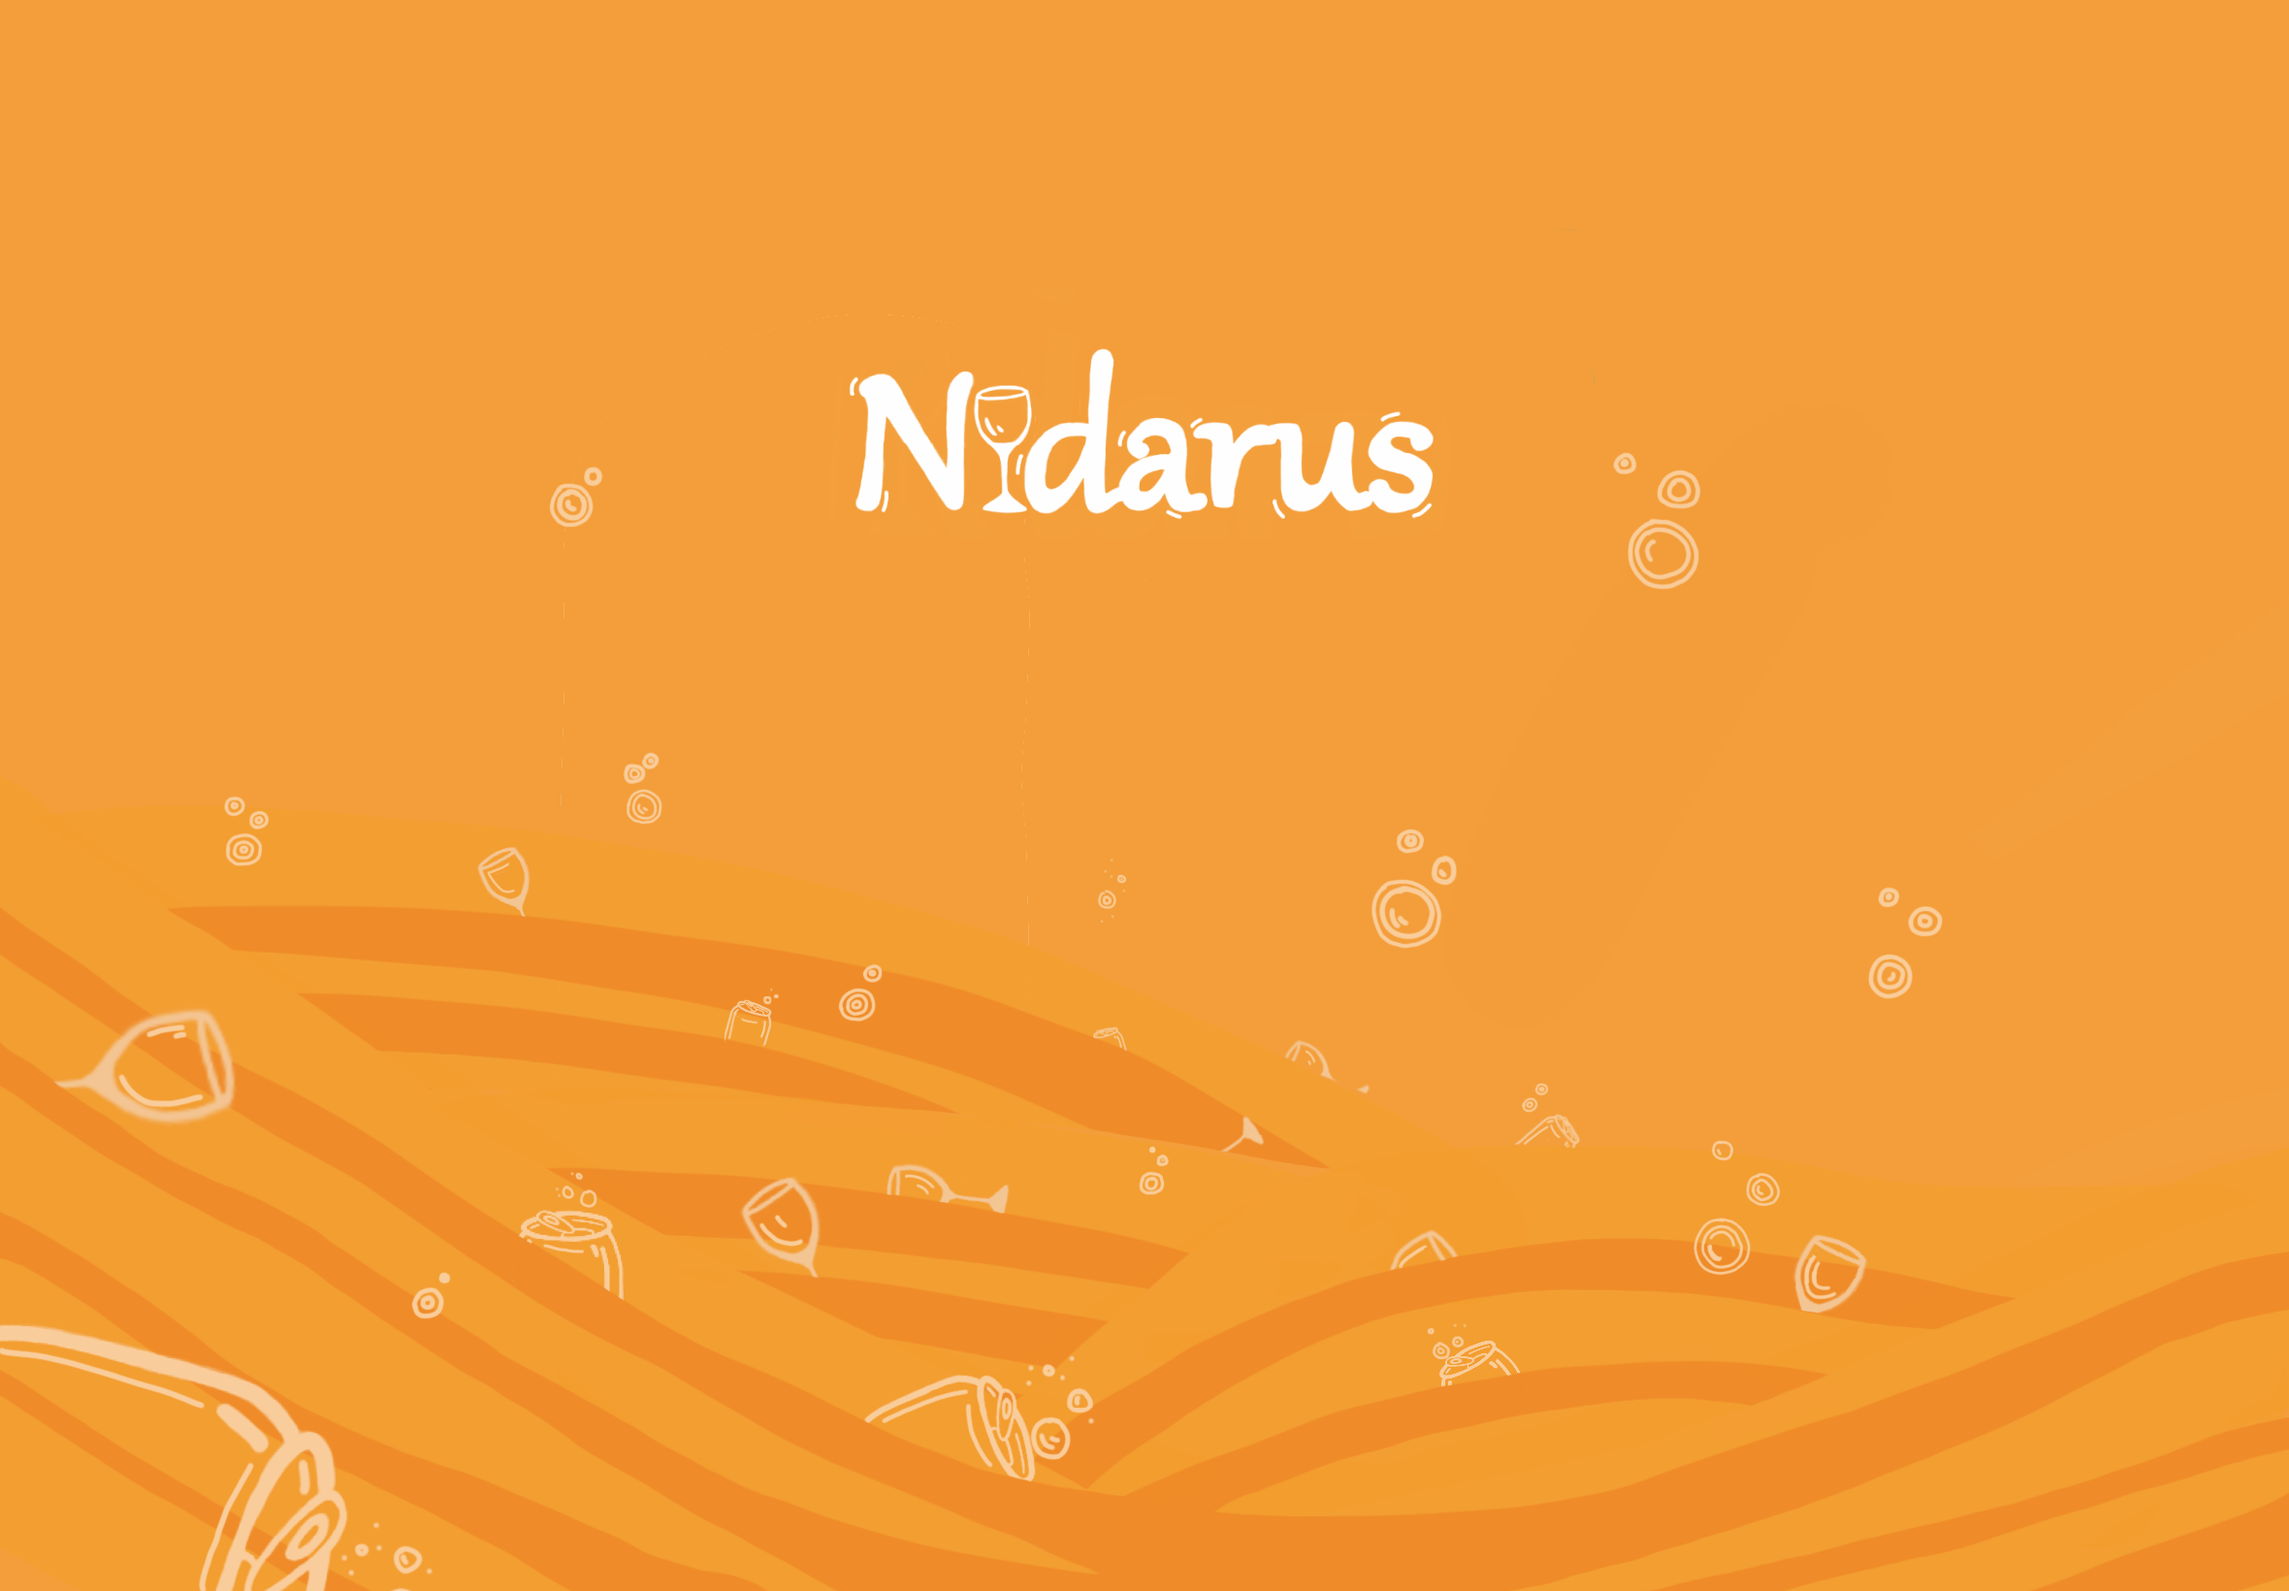
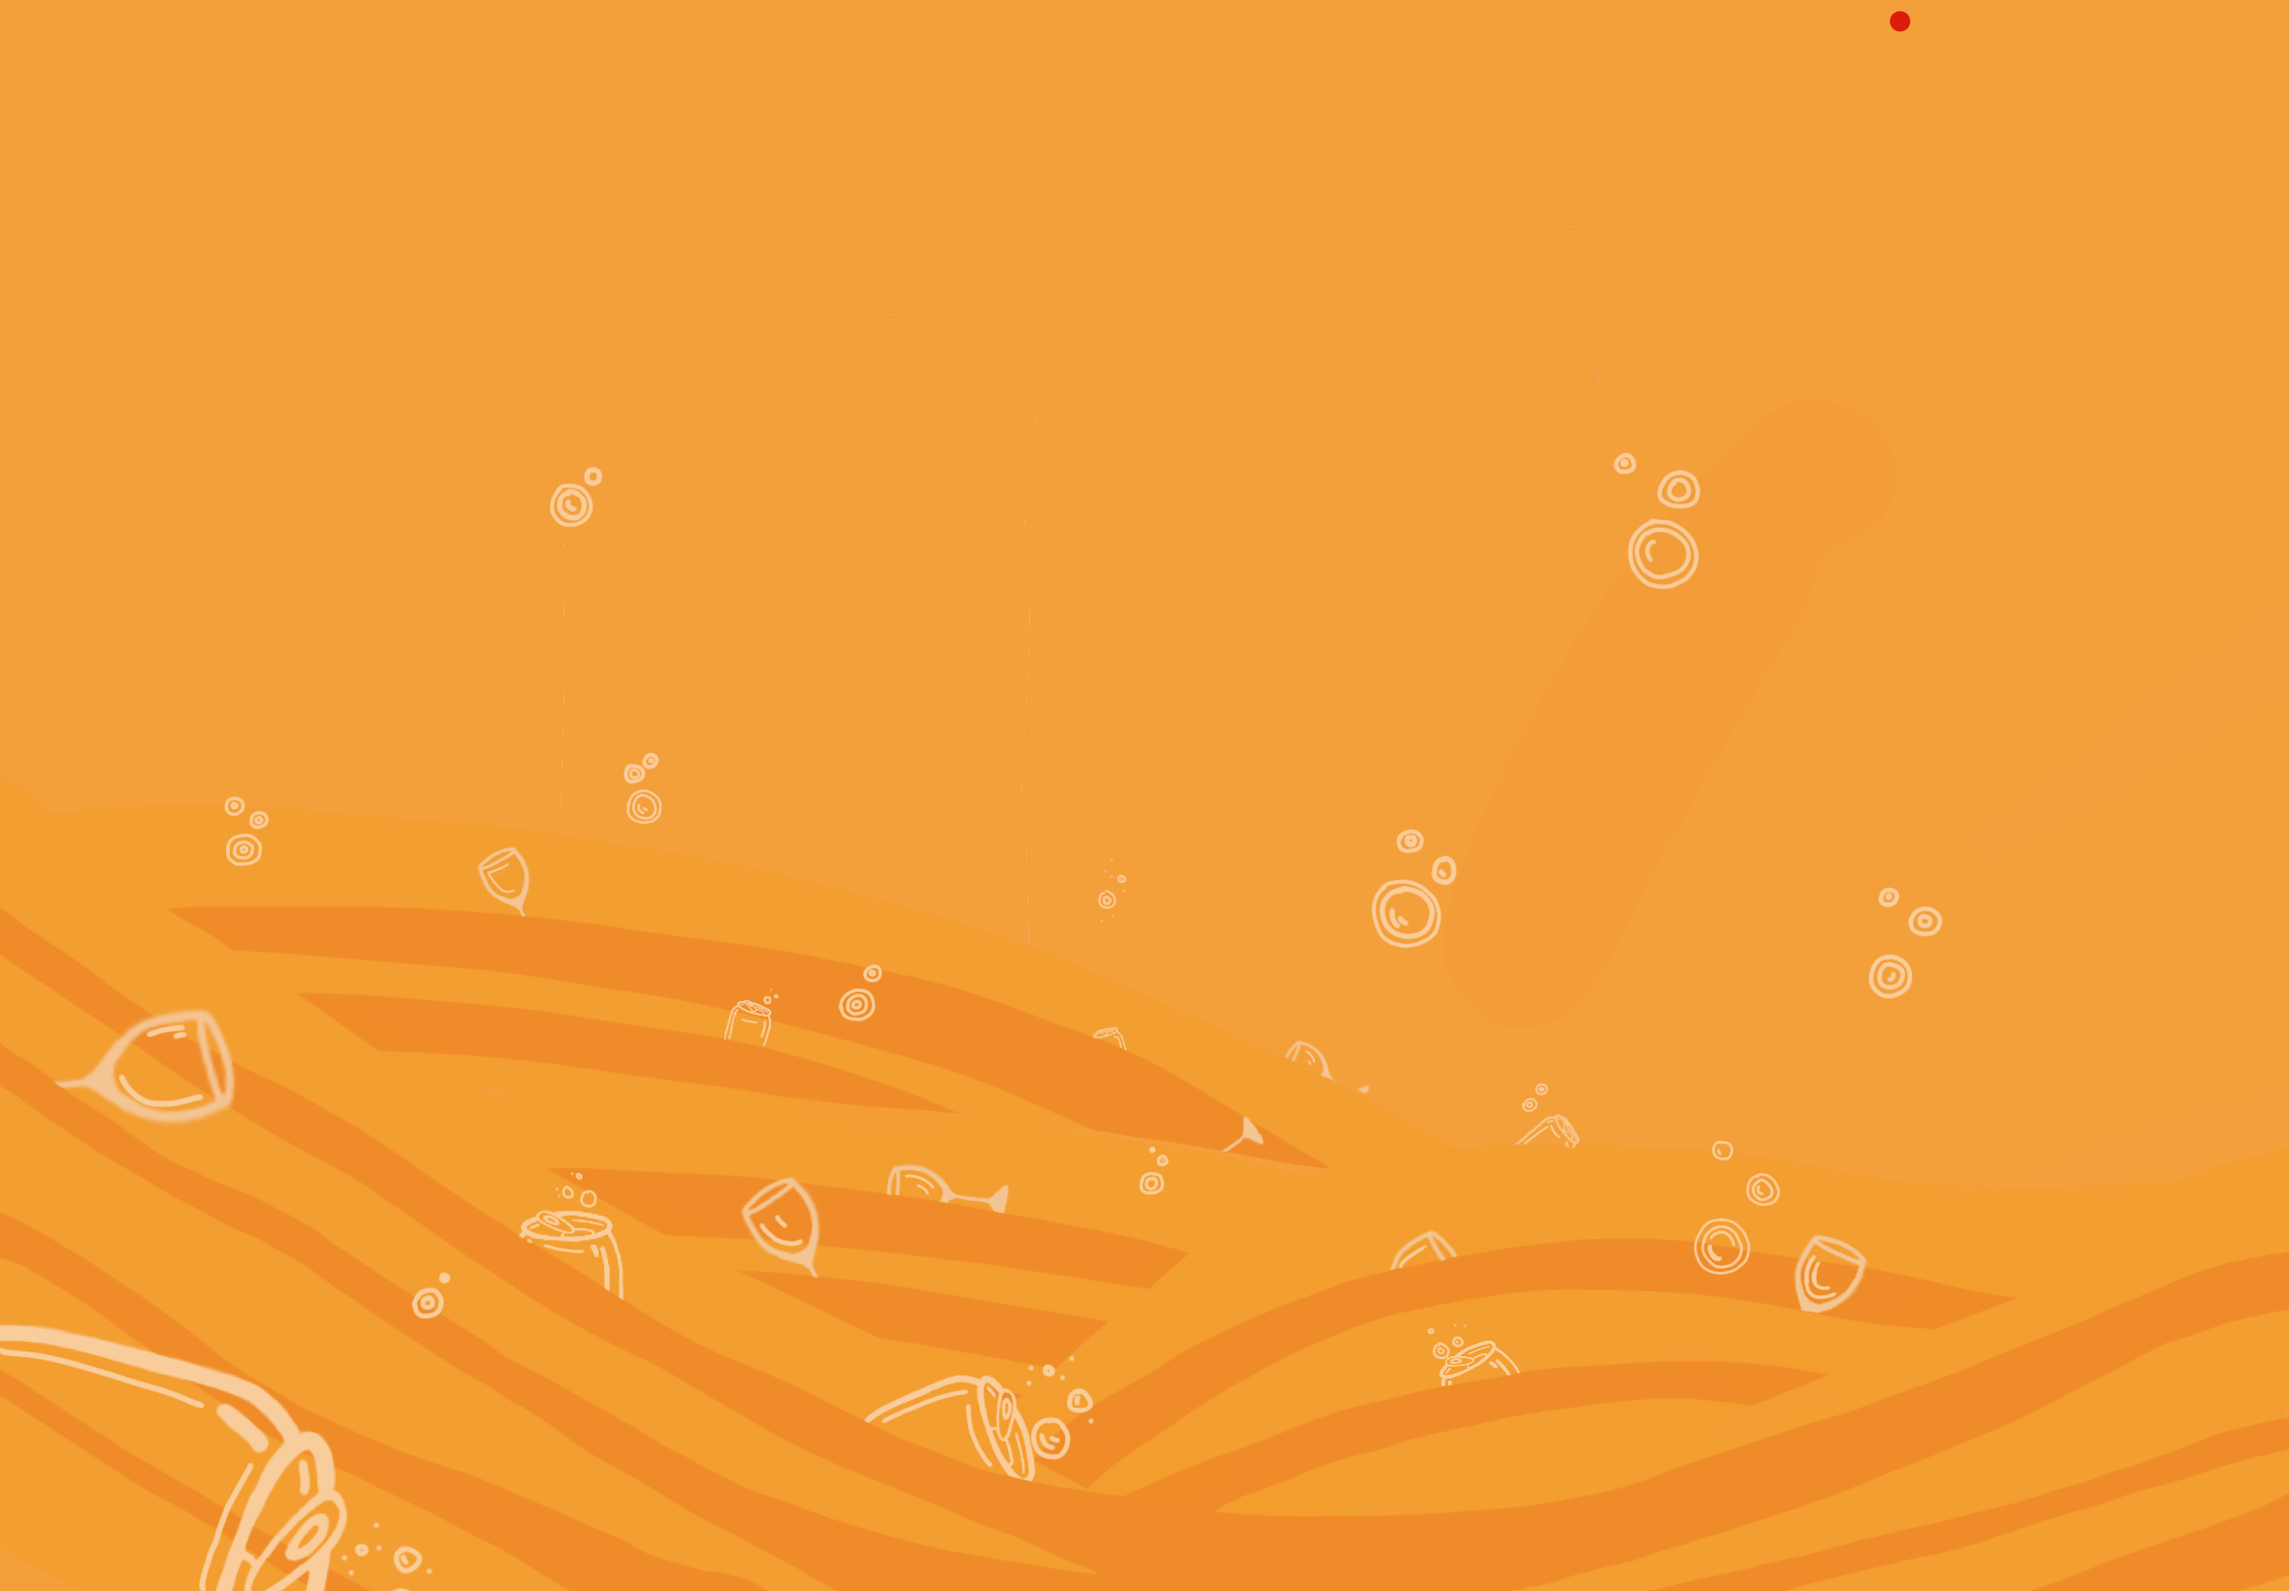
Updated front page and added google tag

Changed region(s): [[0.3712, 0.2177, 0.6496, 0.3421], [0.8042, 0.0, 0.8352, 0.0311]]

diff --git a/src/Components/MainPage.jsx b/src/Components/MainPage.jsx
@@ -2,7 +2,7 @@
 import "../App.css";
 import React, { useState } from "react";
 import {
-    Center, Button, useDisclosure, VStack, Box, Switch, Text, FormLabel, HStack, Image, extendTheme,
+    Center, Button, VStack, Box, Switch, Text, HStack,
 } from "@chakra-ui/react";
 
 import Question from "../Components/Question";
@@ -14,15 +14,17 @@ import TittelNidarus from '../Assets/TittelNidarus.PNG';
 import EmailButton from "./Emailbutton";
 
 
+
 var glostema = true;
 
 function MainPage() {
 
-    const { isOpen, onOpen, onClose } = useDisclosure(false);
+    //const { isOpen, onOpen, onClose } = useDisclosure(false);
 
     //const [newGlostema, setNewGlostema] = useState(true);
     const [started, setStarted] = useState(false);
     const [finalStarted, setFinalStarted] = useState(false);
+
 
 
     return (

diff --git a/src/Questions.js b/src/Questions.js
@@ -453,12 +453,7 @@ const questions = [ // er const bedre?
   content:"memb: gi et kompliment til hver person i rommet. Skål for komplimentene!",
   glos:"0", 
  }, 
- {
-  header: "Navn-spesifikt", 
-  value: "0", 
-  content:"memb, hva er de 3 viktigste egenskapene du ser etter i en partner?",
-  glos:"1", 
- }, 
+
  {
   header: "Navn-spesifikt", 
   value: "0", 
@@ -664,7 +659,7 @@ const questions = [ // er const bedre?
   glos:"0", 
  }, 
  {
-  header: "Navn-spesifikt", 
+  header: "Utfordring", 
   value: "2", 
   content:"Drikk en slurk for hver pulbare person i rommet",
   glos:"0", 
@@ -1115,7 +1110,7 @@ const questions = [ // er const bedre?
  }, 
  {
   header: "Pekelek", 
-  value: "2", 
+  value: "3", 
   content:"Personen som onanerte sist kan dele ut 4 slurker",
   glos:"2", 
  }, 

diff --git a/public/index.html b/public/index.html
@@ -1,6 +1,20 @@
 <!DOCTYPE html>
 <html lang="en">
   <head>
+    <!-- Google tag (gtag.js) -->
+    <script
+      async
+      src="https://www.googletagmanager.com/gtag/js?id=G-NF852NETRT"
+    ></script>
+    <script>
+      window.dataLayer = window.dataLayer || [];
+      function gtag() {
+        dataLayer.push(arguments);
+      }
+      gtag("js", new Date());
+
+      gtag("config", "G-NF852NETRT");
+    </script>
     <meta charset="utf-8" />
     <link rel="icon" href="%PUBLIC_URL%/favicon.ico" />
     <meta name="viewport" content="width=device-width, initial-scale=1" />

diff --git a/src/Components/Droyhetsskala.jsx b/src/Components/Droyhetsskala.jsx
@@ -9,17 +9,8 @@ import {
     Heading,
     VStack,
     HStack,
-    Modal,
-    ModalContent,
-    ModalOverlay,
-    ModalCloseButton,
-    ModalHeader,
-    ModalFooter,
     useDisclosure,
     Button,
-    Alert,
-    AlertIcon,
-    Input,
 
 
 } from '@chakra-ui/react'

diff --git a/src/Components/Emailbutton.jsx b/src/Components/Emailbutton.jsx
@@ -1,10 +1,6 @@
 import {
-    Box,
     Button,
-    VStack,
-    Text,
     Center,
-    HStack,
     Modal,
     ModalContent,
     ModalOverlay,
